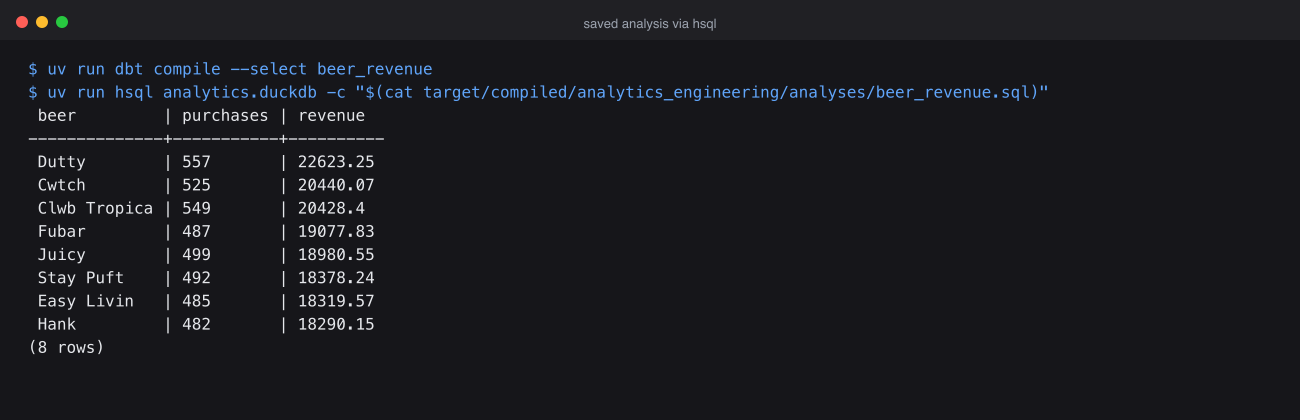
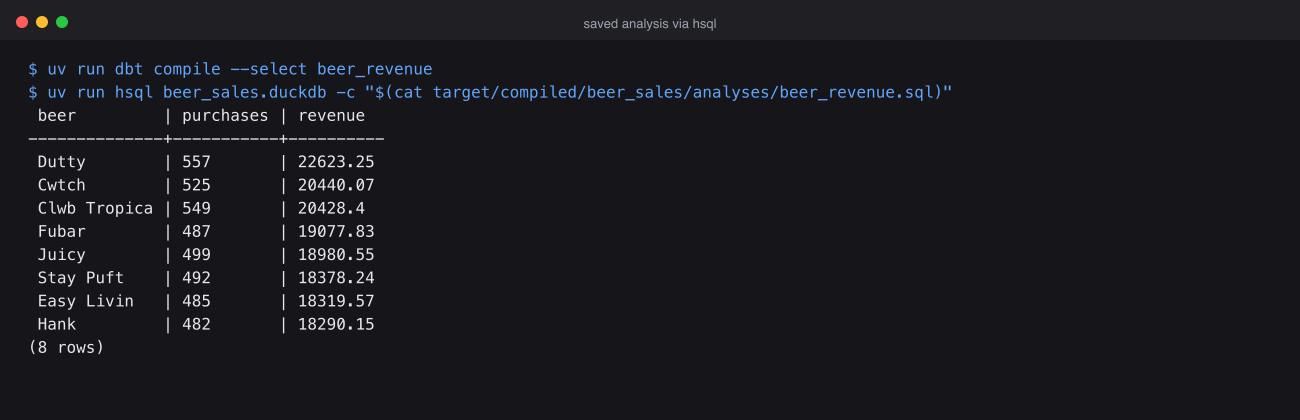
docs: rename dbt project to beer_sales in part 2 post

Changed region(s): [[0.1231, 0.1857, 0.8, 0.2476]]

diff --git a/src/content/blog/2026-10-31-rigorous-local-data-engineering-with-duckdb-and-dbt.md b/src/content/blog/2026-10-31-rigorous-local-data-engineering-with-duckdb-and-dbt.md
@@ -47,14 +47,14 @@ Next run the following command:
 uv run dbt init
 ```
 
-Which will ask for some details to start your dbt project. I called mine `analytics_engineering` and picked duckdb as the database:
+Which will ask for some details to start your dbt project. I called mine `beer_sales`, after the data product it serves rather than the tool building it, and picked duckdb as the database:
 
 ![dbt init](/assets/2026-10-31-rigorous-local-data-engineering-with-duckdb-and-dbt/dbt_init.png)
 
 You'll then get a gnarly looking and obviously far more professional (and complicated!) directory layout compared to our first iteration. Hold on there reader, it'll be worth it.
 
 ```txt
-analytics_engineering/
+beer_sales/
 ├── analyses/
 ├── macros/
 ├── models/
@@ -77,7 +77,7 @@ If yours looks like this, dbt init did its job.
 Keeping in the spirit of simplicity, we're going to focus on only what we need right now to get going. Delete the macros, snapshots and tests directories, the starter README, and the `models/example` folder (its starter tests fail out of the box, so it has to go). We'll keep analyses and seeds as they each earn their place in our beer shop. You can look at the [dbt docs](https://docs.getdbt.com/docs/build/projects) for more information on what everything is for. Your dbt directory structure should look something like this now:
 
 ```txt
-analytics_engineering/
+beer_sales/
 ├── analyses/
 ├── models/
 ├── seeds/
@@ -103,14 +103,14 @@ Small CSV files of reference data that dbt loads into a table for you. Think loo
 The project config. Update yours to look like this:
 
 ```yaml
-name: analytics_engineering
+name: beer_sales
 version: "1.0.0"
 config-version: 2
-profile: analytics_engineering
+profile: beer_sales
 model-paths: ["models"]
 
 models:
-  analytics_engineering:
+  beer_sales:
     staging:
       +materialized: view
     marts:
@@ -121,22 +121,22 @@ The bit worth knowing is the `models` block at the bottom. It sets how each fold
 
 #### profiles.yml
 
-This tells dbt where to connect. `dbt init` puts this in your home directory by default, but keeping it in the project means it lives in source control with everything else. Create `analytics_engineering/profiles.yml` with the following:
+This tells dbt where to connect. `dbt init` puts this in your home directory by default, but keeping it in the project means it lives in source control with everything else. Create `beer_sales/profiles.yml` with the following:
 
 ```yaml
-analytics_engineering:
+beer_sales:
   target: "{{ env_var('DBT_TARGET', 'local') }}"
   outputs:
     local:
       type: duckdb
-      path: analytics.duckdb
+      path: beer_sales.duckdb
       schema: main
       threads: 4
       extensions:
         - parquet
 ```
 
-We've only got one target called `local`, which writes to an `analytics.duckdb` file. The `DBT_TARGET` environment variable picks which target to use and defaults to local.
+We've only got one target called `local`, which writes to an `beer_sales.duckdb` file. The `DBT_TARGET` environment variable picks which target to use and defaults to local.
 
 This will become important for when we want to deploy to a new environment - coming in part 3!
 
@@ -145,7 +145,7 @@ This will become important for when we want to deploy to a new environment - com
 Our dbt project should end up looking something like this for the demo:
 
 ```txt
-analytics_engineering/
+beer_sales/
 ├── analyses/
 │   └── beer_revenue.sql
 ├── models/
@@ -185,7 +185,7 @@ sources:
 
 This starts adding the environmental awareness in to our dbt setup. We can now reference a table called events consistently in our other scripts but the actual location can change now per environment based on the environment variable. This means we can use a local directory for local development in `EVENTS_LOCATION` and later use say an AWS S3 url for dev and production.
 
-The default path starts with `../` because we run dbt from inside the `analytics_engineering` directory and our data lives one level up.
+The default path starts with `../` because we run dbt from inside the `beer_sales` directory and our data lives one level up.
 
 The `columns` block puts our first tests straight on the raw data. Every event needs an `event_id` and a `customer_id`, and we want to know if the source ever stops sending them. Testing here matters, because our staging model filters those nulls out - test after the filter and the test could never fail, it would just quietly drop the bad rows.
 
@@ -290,10 +290,10 @@ These are dbt's built in generic tests. `not_null` and `unique` do what they say
 
 ## Local Dev Loop
 
-Run this now for your local dev loop from inside the `analytics_engineering` directory:
+Run this now for your local dev loop from inside the `beer_sales` directory:
 
 ```bash
-cd analytics_engineering
+cd beer_sales
 export DBT_PROFILES_DIR="$(pwd)"
 export DBT_TARGET=local
 export EVENTS_LOCATION="../data/raw/events/*.parquet"
@@ -304,7 +304,7 @@ uv run dbt build
 
 `dbt debug` checks your profile and connection are happy. `dbt build` then loads the seed and runs every model and every test in dependency order - source tests, seed and staging view, staging tests, mart table, mart tests. If a test fails, everything downstream of it gets skipped rather than built on bad data.
 
-Between them these create `analytics.duckdb` in the `analytics_engineering` directory - `dbt debug` opens it for the first time, and `dbt build` fills it with our seed, view and table. That's the persistent database part 1 was missing.
+Between them these create `beer_sales.duckdb` in the `beer_sales` directory - `dbt debug` opens it for the first time, and `dbt build` fills it with our seed, view and table. That's the persistent database part 1 was missing.
 
 ![dbt build](/assets/2026-10-31-rigorous-local-data-engineering-with-duckdb-and-dbt/dbt_build.png)
 
@@ -312,7 +312,7 @@ Nine green passes. A seed, two models and six tests (two on the source, two on s
 
 ## Harlequin on a Real Database
 
-Now for the persistence we promised in part 1. Stay inside the `analytics_engineering` directory for this bit. The `stg_events` view stores the relative `../data/raw/events` path, so harlequin has to run from the same place dbt did to find the parquet files. Harlequin also reads `harlequin.toml` from the current directory, so if you created one in part 1, copy it into `analytics_engineering` to keep your dracula theme:
+Now for the persistence we promised in part 1. Stay inside the `beer_sales` directory for this bit. The `stg_events` view stores the relative `../data/raw/events` path, so harlequin has to run from the same place dbt did to find the parquet files. Harlequin also reads `harlequin.toml` from the current directory, so if you created one in part 1, copy it into `beer_sales` to keep your dracula theme:
 
 ```bash
 cp ../harlequin.toml .
@@ -321,12 +321,12 @@ cp ../harlequin.toml .
 Then open harlequin against the duckdb file dbt just built:
 
 ```bash
-uv run harlequin analytics.duckdb
+uv run harlequin beer_sales.duckdb
 ```
 
-In the data catalog on the left (`Ctrl + B` if it's hidden), expand `analytics` and then `main`. There's everything dbt built for us - our `beers` seed and `fct_daily_event_summary` as tables, and `stg_events` as a view. Quit harlequin, open it again, and they're all still there. No more in-memory amnesia.
+In the data catalog on the left (`Ctrl + B` if it's hidden), expand `beer_sales` and then `main`. There's everything dbt built for us - our `beers` seed and `fct_daily_event_summary` as tables, and `stg_events` as a view. Quit harlequin, open it again, and they're all still there. No more in-memory amnesia.
 
-![Harlequin data catalog showing the beers seed, the fct_daily_event_summary table and the stg_events view in the main schema](/assets/2026-10-31-rigorous-local-data-engineering-with-duckdb-and-dbt/harlequin_analytics_db.png)
+![Harlequin data catalog showing the beers seed, the fct_daily_event_summary table and the stg_events view in the main schema](/assets/2026-10-31-rigorous-local-data-engineering-with-duckdb-and-dbt/harlequin_beer_sales_db.png)
 
 Lets see which beers are paying the bills. Paste this into the query editor and hit `Ctrl + Enter`:
 
@@ -342,7 +342,7 @@ order by revenue desc;
 
 No `read_parquet`, no file paths, just a table name.
 
-A gotcha worth knowing about the schema. Set `schema: analytics` in `profiles.yml` and duckdb throws an "ambiguous reference" error the moment you query anything. The database file is called `analytics.duckdb`, so duckdb names the catalog `analytics` too, and it can't tell which `analytics` you mean. You end up typing `analytics.analytics.fct_daily_event_summary` everywhere, which is why we use the `main` schema.
+A gotcha worth knowing about the schema. It's tempting to name it after the data product too, but set `schema: beer_sales` in `profiles.yml` and duckdb throws an "ambiguous reference" error the moment you query anything. The database file is called `beer_sales.duckdb`, so duckdb names the catalog `beer_sales` too, and it can't tell which `beer_sales` you mean. You end up typing `beer_sales.beer_sales.fct_daily_event_summary` everywhere, which is why we use the `main` schema.
 
 When you're done, quit harlequin with `Ctrl + Q`. Duckdb only lets one process write to a database file at a time, so leave harlequin open and the next dbt or hsql run fails with a `Could not set lock on file` error.
 
@@ -374,8 +374,8 @@ dbt won't build this, but it will compile it into plain SQL with the `ref()` swa
 
 ```bash
 uv run dbt compile --select beer_revenue
-uv run hsql analytics.duckdb \
-  -c "$(cat target/compiled/analytics_engineering/analyses/beer_revenue.sql)"
+uv run hsql beer_sales.duckdb \
+  -c "$(cat target/compiled/beer_sales/analyses/beer_revenue.sql)"
 ```
 
 ![hsql mart](/assets/2026-10-31-rigorous-local-data-engineering-with-duckdb-and-dbt/hsql_mart.png)
